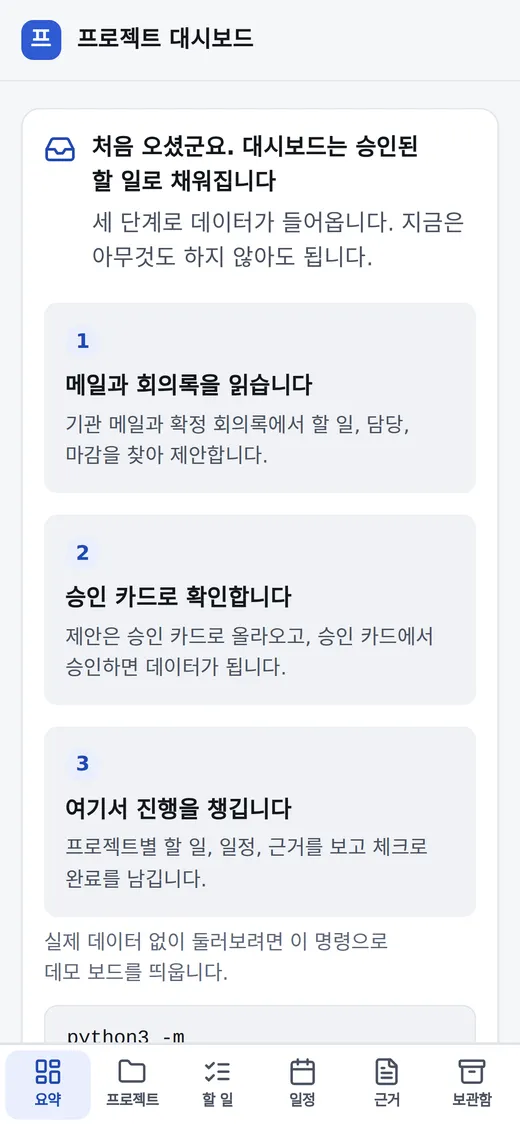
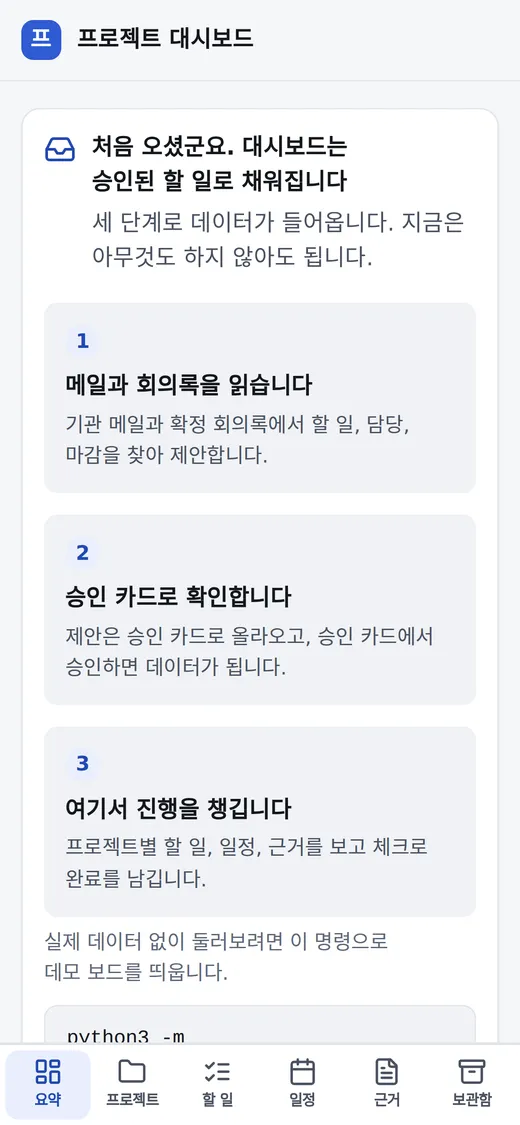
fix(project-board): visual QA round 5 - separators never start a line, subject phrases kept together

Changed region(s): [[0.1846, 0.1244, 0.6769, 0.1867], [0.6769, 0.0933, 0.8, 0.1556]]

diff --git a/automation/project_board/dashboard.py b/automation/project_board/dashboard.py
@@ -194,7 +194,7 @@ _WEEKDAYS: Final = "월화수목금토일"
 
 ONBOARDING: Final = (
     f'<div class="card onboard" data-tab="summary"><div class="onboard-head">{icon("inbox")}<div>'
-    "<b>처음 오셨군요. 대시보드는 승인된 할\u00a0일로 채워집니다</b>"
+    "<b>처음 오셨군요. 대시보드는 승인된\u00a0할\u00a0일로 채워집니다</b>"
     "<p>세 단계로 데이터가 들어옵니다. 지금은 아무것도 하지 않아도 됩니다.</p></div></div>"
     '<ol class="steps"><li><b>메일과 회의록을 읽습니다</b>'
     "<span>기관 메일과 확정 회의록에서 할\u00a0일, 담당, 마감을 찾아 제안합니다.</span></li>"
@@ -208,7 +208,7 @@ _ARCHIVE_DIALOG: Final = (
     '<dialog id="archive-dialog" aria-labelledby="archive-title"><form method="dialog">'
     '<h2 id="archive-title" tabindex="-1" autofocus>이 프로젝트를 보관할까요?</h2>'
     '<p>「<b data-name></b>」 프로젝트는 요약, 할\u00a0일, 일정, 근거에서 빠지고 보관함에서만 보입니다. '
-    "할\u00a0일과 근거는 지워지지 않고 프로젝트 화면의 <span class=\"q\">「보관 해제」로</span> 언제든 되돌립니다.</p>"
+    "할\u00a0일과\u00a0근거는 지워지지 않고 프로젝트 화면의 <span class=\"q\">「보관 해제」로</span> 언제든 되돌립니다.</p>"
     '<p class="dialog-error" role="alert"></p>'
     '<div class="dialog-actions"><button class="btn" value="cancel">취소</button>'
     '<button class="btn primary" value="ok" data-confirm>보관하기</button></div></form></dialog>'
@@ -249,6 +249,9 @@ def _ago(stamp: str, now: str) -> str:
         return f"{minutes // 60}시간 전"
     days = (current + timedelta(hours=9)).date() - (then + timedelta(hours=9)).date()
     return "어제" if days.days == 1 else f"{days.days}일 전" if days.days < 7 else _md((then + timedelta(hours=9)).date().isoformat())
+
+
+_SEP: Final = "\u00a0· "  # a separator never starts a line
 
 
 def _keep(text: str) -> str:
@@ -541,7 +544,7 @@ def _agenda_cards(
             items.append(
                 f'<li data-project="{escape(todo.project, quote=True)}"><span class="badge {css}">{label}</span>'
                 f'<b>{escape(todo.title)}</b>{_grade_badge(todo.grade)}'
-                f'<span class="where">{" · ".join(where)}</span></li>'
+                f'<span class="where">{_SEP.join(where)}</span></li>'
             )
         parts.append(_fold(f"{key}:{name}", name, len(rows), f'<ul>{"".join(items)}</ul>', cls="card bucket fold"))
     return "".join(parts)
@@ -582,7 +585,7 @@ def _source_card(row: SourceRow, produced: list[TodoRow], mode: Mode, *, with_pr
     top = [_md(row.source_date), kind] + ([escape(row.source_sender)] if row.source_sender else [])
     top += [escape(row.project)] if with_project else []
     return (
-        f'<div class="card src-card"><div class="top"><span>{" · ".join(top)}</span>{_grade_badge(row.grade)}</div>'
+        f'<div class="card src-card"><div class="top"><span>{_SEP.join(top)}</span>{_grade_badge(row.grade)}</div>'
         f'{title}<p>{_keep(row.summary)}</p>{attachments}'
         f'<div class="names">{icon("list")}<span>만든 할\u00a0일: {todos}</span></div></div>'
     )
@@ -676,7 +679,7 @@ def _archived_line(view: ProjectView, mode: Mode) -> str:
 def _archive(shelf: tuple[ProjectView, ...], mode: Mode, today: date, fresh: dict[str, int] | None = None) -> str:
     """보관함: archived projects only. Their todos and evidence are kept and open from the card."""
     sub = ("보관한 프로젝트는 요약, 프로젝트, 할\u00a0일, 일정, 근거와 프로젝트 고르기에 나오지 않습니다. "
-           "할\u00a0일과 근거는 지워지지 않고, 프로젝트 화면의 <span class=\"q\">「보관 해제」로</span> 되돌립니다.")
+           "할\u00a0일과\u00a0근거는 지워지지 않고, 프로젝트 화면의 <span class=\"q\">「보관 해제」로</span> 되돌립니다.")
 
     def line(view: ProjectView) -> str:
         count = (fresh or {}).get(view.name, 0)

diff --git a/automation/project_board/server.py b/automation/project_board/server.py
@@ -139,7 +139,7 @@ class _Handler(BaseHTTPRequestHandler):
             self._send(303, b"", "text/plain", {"Location": parsed.path or "/", "Set-Cookie": cookie})
             return
         if not self._tokenless() and not self._cookie_ok():
-            self._page(401, "로그인이 필요합니다", "처음 한 번은 설치할 때 받은 접속\u00a0주소로 열어야\u00a0합니다. 그 뒤로는 이\u00a0브라우저가 기억합니다.", home=False)
+            self._page(401, "로그인이 필요합니다", "처음 한 번은 설치할 때 받은 접속\u00a0주소로 열어야\u00a0합니다. 그\u00a0뒤로는 이\u00a0브라우저가 기억합니다.", home=False)
             return
         parts = [unquote(part) for part in parsed.path.split("/") if part]
         if not parts:
